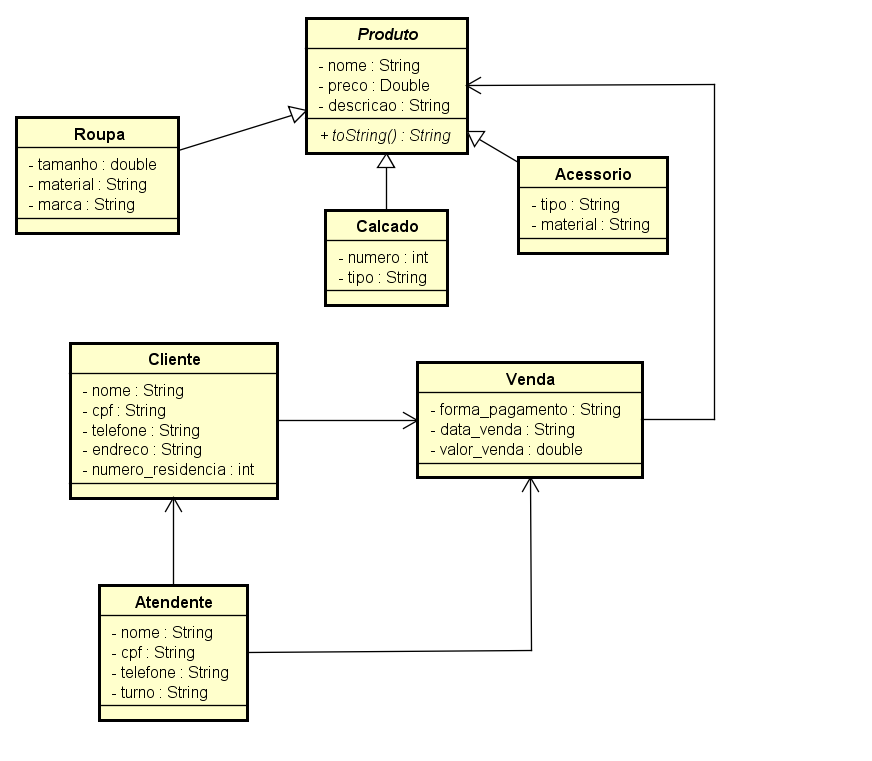
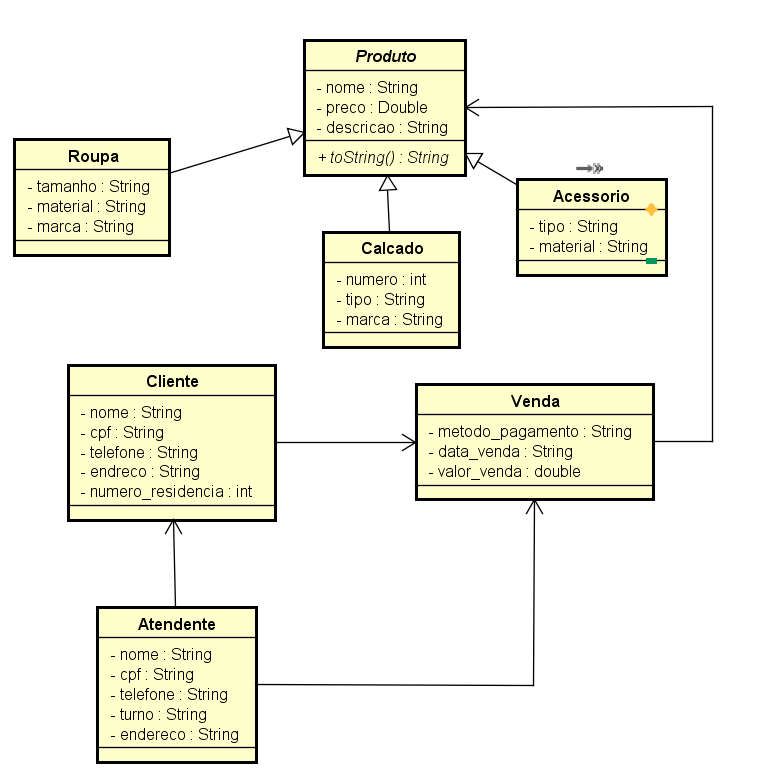
Update Class, mas falta a DAO e a teste

diff --git a/ProjectStore/src/modelos/Venda.java b/ProjectStore/src/modelos/Venda.java
@@ -1,15 +1,14 @@
 package modelos;
 
 public class Venda {
-  private String data;
-  private String itens;
-  private String forma_pagamento;
+  private String data_venda;
+  private Double valor_venda;
+  private String metodo_pagamento;
   private Produto produto;
 
-  public Venda(String data, String itens, String forma_pagamento, Produto produto) {
-    this.data = data;
-    this.itens = itens;
-    this.forma_pagamento = forma_pagamento;
+  public Venda(String data_venda, String metodo_pagamento, Produto produto) {
+    this.data_venda = data_venda;
+    this.metodo_pagamento = metodo_pagamento;
     this.produto = produto;
   }
 
@@ -17,39 +16,39 @@ public class Venda {
   }
 
   public String adicionarProduto(Produto produto, int quantidade) {
-      Double valor_final =  produto.getPreco() * quantidade;
-      return "<----- Dados do Pedido ----->\n"
-          + "Data: " + this.getData() + "\n"
-          + "Produto: " + this.getProduto().getNome() + "\n"
-          + "Valor: " + getProduto().getPreco() + "\n"
-          + "Quantidade: " + quantidade + "\n"
-          + "Valor Final: " + valor_final + "\n"
-          + "Forma de Pagamento: " + this.getForma_pagamento() + "\n"
-          + "------------------------------";
+    this.valor_venda = produto.getPreco() * quantidade;
+    return "<----- Dados do Pedido ----->\n"
+        + "Data: " + this.getData() + "\n"
+        + "Produto: " + this.getProduto().getNome() + "\n"
+        + "Valor: " + getProduto().getPreco() + "\n"
+        + "Quantidade: " + quantidade + "\n"
+        + "Valor Final: " + valor_venda + "\n"
+        + "Metodo de Pagamento: " + this.getMetodo_pagamento() + "\n"
+        + "------------------------------";
   }
 
   public String getData() {
-    return data;
+    return data_venda;
   }
 
-  public void setData(String data) {
-    this.data = data;
+  public void setData(String data_venda) {
+    this.data_venda = data_venda;
   }
 
-  public String getItens() {
-    return itens;
+  public Double getValor_venda() {
+    return valor_venda;
   }
 
-  public void setItens(String itens) {
-    this.itens = itens;
+  public void setValor_venda(Double valor_venda) {
+    this.valor_venda = valor_venda;
   }
 
-  public String getForma_pagamento() {
-    return forma_pagamento;
+  public String getMetodo_pagamento() {
+    return metodo_pagamento;
   }
 
-  public void setForma_pagamento(String forma_pagamento) {
-    this.forma_pagamento = forma_pagamento;
+  public void setMetodo_pagamento(String metodo_pagamento) {
+    this.metodo_pagamento = metodo_pagamento;
   }
 
   public Produto getProduto() {

diff --git a/ProjectStore/src/modelos/Atendente.java b/ProjectStore/src/modelos/Atendente.java
@@ -2,13 +2,21 @@ package modelos;
 
 public class Atendente {
   private String nome;
-  private String email;
+  private String cpf;
+  private String telefone;
+  private String turno;
+  private String endereco;
   private Cliente cliente;
+  private Venda venda;
 
-  public Atendente(String nome, String email, Cliente cliente) {
+  public Atendente(String nome, String email, String cpf, String telefone, String turno, String endereco, Cliente cliente, Venda venda) {
     this.nome = nome;
-    this.email = email;
+    this.cpf = cpf;
+    this.telefone = telefone;
+    this.turno = turno;
+    this.endereco = endereco;
     this.cliente = cliente;
+    this.venda = venda;
   }
 
   public Atendente() {
@@ -22,12 +30,36 @@ public class Atendente {
     this.nome = nome;
   }
 
-  public String getEmail() {
-    return email;
+  public String getCpf() {
+    return cpf;
   }
 
-  public void setEmail(String email) {
-    this.email = email;
+  public void setCpf(String cpf) {
+    this.cpf = cpf;
+  }
+
+  public String getTelefone() {
+    return telefone;
+  }
+
+  public void setTelefone(String telefone) {
+    this.telefone = telefone;
+  }
+
+  public String getTurno() {
+    return turno;
+  }
+
+  public void setTurno(String turno) {
+    this.turno = turno;
+  }
+
+  public String getEndereco() {
+    return endereco;
+  }
+
+  public void setEndereco(String endereco) {
+    this.endereco = endereco;
   }
 
   public Cliente getCliente() {
@@ -36,5 +68,13 @@ public class Atendente {
 
   public void setCliente(Cliente cliente) {
     this.cliente = cliente;
+  }
+
+  public Venda getVenda() {
+    return venda;
+  }
+
+  public void setVenda(Venda venda) {
+    this.venda = venda;
   }
 }

diff --git a/ProjectStore/src/modelos/Roupa.java b/ProjectStore/src/modelos/Roupa.java
@@ -1,13 +1,15 @@
 package modelos;
 
 public class Roupa extends Produto {
-  private Double tamanho;
+  private String tamanho;
   private String material;
+  private String marca;
 
-  public Roupa(String nome, Double preco, String descricao, Double tamanho, String material) {
+  public Roupa(String nome, Double preco, String descricao, String tamanho, String material, String marca) {
     super(nome, preco, descricao);
     this.tamanho = tamanho;
     this.material = material;
+    this.marca = marca;
   }
 
   public Roupa() {
@@ -20,14 +22,16 @@ public class Roupa extends Produto {
       + "\nPreco: " + getPreco() 
       + "\nDescricao: " + getDescricao()
       + "\nTamanho: " + getTamanho() 
-      + "\nMaterial: " + getMaterial();
+      + "\nMaterial: " + getMaterial()
+      + "\nMarca: " + getMarca()
+    ;
   }
 
-  public Double getTamanho() {
+  public String getTamanho() {
     return tamanho;
   }
 
-  public void setTamanho(Double tamanho) {
+  public void setTamanho(String tamanho) {
     this.tamanho = tamanho;
   }
 
@@ -37,5 +41,13 @@ public class Roupa extends Produto {
 
   public void setMaterial(String material) {
     this.material = material;
+  }
+
+  public String getMarca() {
+    return marca;
+  }
+
+  public void setMarca(String marca) {
+    this.marca = marca;
   }
 }

diff --git a/ProjectStore/src/modelos/Cliente.java b/ProjectStore/src/modelos/Cliente.java
@@ -2,15 +2,17 @@ package modelos;
 
 public class Cliente {
   private String nome;
-  private String endereco;
+  private String cpf;
   private String telefone;
-  private Venda pedido;
+  private String endereco;
+  private int numero_residencia;
+  private Venda venda;
 
-  public Cliente(String nome, String endereco, String telefone, Venda pedido) {
+  public Cliente(String nome, String endereco, String telefone, Venda venda) {
     this.nome = nome;
     this.endereco = endereco;
     this.telefone = telefone;
-    this.pedido = pedido;
+    this.venda = venda;
   }
 
   public Cliente() {
@@ -40,11 +42,27 @@ public class Cliente {
     this.telefone = telefone;
   }
 
-  public Venda getPedido() {
-    return pedido;
+  public Venda getVenda() {
+    return venda;
   }
 
-  public void setPedido(Venda pedido) {
-    this.pedido = pedido;
+  public void setVenda(Venda venda) {
+    this.venda = venda;
+  }
+
+  public String getCpf() {
+    return cpf;
+  }
+
+  public void setCpf(String cpf) {
+    this.cpf = cpf;
+  }
+
+  public int getNumero_residencia() {
+    return numero_residencia;
+  }
+
+  public void setNumero_residencia(int numero_residencia) {
+    this.numero_residencia = numero_residencia;
   }
 }

diff --git a/ProjectStore/src/modelos/Calcado.java b/ProjectStore/src/modelos/Calcado.java
@@ -3,11 +3,13 @@ package modelos;
 public class Calcado extends Produto {
   private int numero;
   private String tipo;
+  private String marca;
 
-  public Calcado(String nome, Double preco, String descricao, int numero, String tipo) {
+  public Calcado(String nome, Double preco, String descricao, int numero, String tipo, String marca) {
     super(nome, preco, descricao);
     this.numero = numero;
     this.tipo = tipo;
+    this.marca = marca;
   }
 
   public Calcado() {
@@ -20,7 +22,9 @@ public class Calcado extends Produto {
       + "\nPreco: " + getPreco() 
       + "\nDescricao: " + getDescricao()
       + "\nNumero: " + getNumero() 
-      + "\nTipo: " + getTipo();
+      + "\nTipo: " + getTipo()
+      + "\nMarca: " + getMarca()
+    ;
   }
 
   public int getNumero() {
@@ -37,5 +41,13 @@ public class Calcado extends Produto {
 
   public void setTipo(String tipo) {
     this.tipo = tipo;
+  }
+
+  public String getMarca() {
+    return marca;
+  }
+
+  public void setMarca(String marca) {
+    this.marca = marca;
   }
 }

diff --git a/ProjectStore/src/modelos/Acessorio.java b/ProjectStore/src/modelos/Acessorio.java
@@ -2,10 +2,12 @@ package modelos;
 
 public class Acessorio extends Produto {
   private String tipo;
+  private String material;
 
-  public Acessorio(String nome, Double preco, String descricao, String tipo) {
+  public Acessorio(String nome, Double preco, String descricao, String tipo, String material) {
     super(nome, preco, descricao);
     this.tipo = tipo;
+    this.material = material;
   }
 
   public Acessorio() {
@@ -17,7 +19,17 @@ public class Acessorio extends Produto {
       +"\nNome: " + getNome() 
       + "\nPreco: " + getPreco() 
       + "\nDescricao: " + getDescricao()
-      + "\nTipo: " + getTipo();
+      + "\nTipo: " + getTipo()
+      + "\nMaterial: " + getMaterial()
+    ;
+  }
+
+  public String getMaterial() {
+    return material;
+  }
+
+  public void setMaterial(String material) {
+    this.material = material;
   }
 
   public String getTipo() {

diff --git a/ProjectStore/src/Main.java b/ProjectStore/src/Main.java
@@ -2,10 +2,10 @@ import modelos.Venda;
 import modelos.Roupa;
 public class Main {
   public static void main(String[] args) {
-    Roupa camiseta = new Roupa("Camiseta", 100.00, "Uma camiseta de 100 reais", 20.00, "Alumínio");
+    Roupa camiseta = new Roupa("Camiseta", 100.00, "Uma camiseta de 100 reais", "M", "Algodão", "Nike");
     System.out.println(camiseta);
 
-    Venda pedido = new Venda("11/12/2012", "Camiseta","Pix", camiseta);
-    System.out.println(pedido.adicionarProduto(camiseta, 1));
+    Venda pedido = new Venda("11/12/2012", "Pix", camiseta);
+    System.out.println(pedido.adicionarProduto(camiseta, 4));
   }
 }

diff --git a/ProjectStore/src/Testes/TestesRoupa/MainCreate.java b/ProjectStore/src/Testes/TestesRoupa/MainCreate.java
@@ -4,7 +4,7 @@ import modelos.Roupa;
 
 public class MainCreate {
     public static void main(String[] args) {
-        Roupa camiseta = new Roupa("Camiseta", 100.00, "Uma camiseta de 100 reais", 20.00, "Alumínio"); 
+        Roupa camiseta = new Roupa("Camiseta", 100.00, "Uma camiseta de 100 reais", "10cm", "Alumínio", "Nike");
         System.out.println(camiseta);
     }
 }
